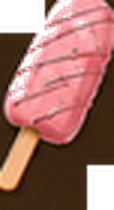
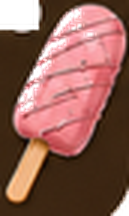
Pricing: fix clipped dozen photos, use Mimi's decor illustrations
The Oreo lost its bottom curve and the cakesicle lost both sides — the crop
boxes were drawn flush to the treats, which shaves a flat edge off a rounded
object. Boxes now leave a couple of px of margin, and the cakesicle no longer
trims inward on the right (her swirl line was already outside the box).

The basic-decor strip now uses her own dipped/drizzled/sprinkles illustrations
off the packages flyer instead of the SVGs I'd drawn.

diff --git a/flyers/crop-treats.py b/flyers/crop-treats.py
@@ -55,24 +55,27 @@ def main():
 
     # ── By the Dozen: one photo per treat ──────────────────────────────────
     # That flyer is only 512x640, so these come out small and get upscaled 3x.
+    # Boxes leave a couple of px of margin past each treat's true edge — these
+    # are photos of rounded objects, so a box drawn flush to the edge shaves a
+    # visible flat off the bottom of the Oreo or the side of the cakesicle.
     dozen = Image.open(DOZEN).convert('RGB')
     dozen_keys = [(DOZEN_PANEL, 26)]
     for name, box in {
-        'oreo': (179, 363, 232, 423),
+        'oreo': (176, 371, 234, 426),
         'krispie': (384, 380, 447, 431),
         'pretzel': (276, 492, 339, 549),
     }.items():
         lift(dozen, box, dozen_keys, scale=3).save(OUT / f'{name}.png')
 
-    # The cakesicle sits against one of her pink swirl lines, with a stray bit
-    # of title lettering above it — neither keys out by colour, so cut them.
+    # A stray bit of the RICE KRISPIES title sits above the cakesicle and keys
+    # to neither background colour, so cut that corner specifically. Don't trim
+    # the right side here — her pink swirl line is already outside the box, and
+    # cutting inward clipped the pop.
     def cakesicle_strays(x, y, w, h):
-        return x > w * 0.78 or (x > w * 0.60 and y > h * 0.78) or (
-            x < w * 0.30 and y < h * 0.15
-        )
+        return x < w * 0.28 and y < h * 0.13
 
     lift(
-        dozen, (201, 467, 249, 537), dozen_keys, scale=3, strays=cakesicle_strays
+        dozen, (198, 463, 241, 535), dozen_keys, scale=3, strays=cakesicle_strays
     ).save(OUT / 'cakesicle.png')
 
     # ── Treat Packages: the treat cluster on each tier's card ──────────────
@@ -85,6 +88,17 @@ def main():
         'pkg-deluxe': (658, 1085, 935, 1266),
     }.items():
         lift(packages, box, pkg_keys).save(OUT / f'{name}.png')
+
+    # ── Treat Packages: her three "basic decor" illustrations ─────────────
+    # Boxes stop short of the strip's own border rule (y=1398) and, for the
+    # drizzle, of the "BASIC DECOR INCLUDES:" lettering above it (ends y=1324).
+    # Keying the cream hollows each circle out, leaving her ring + artwork.
+    for name, box in {
+        'decor-dipped': (163, 1296, 270, 1396),
+        'decor-drizzled': (443, 1326, 511, 1396),
+        'decor-sprinkles': (696, 1326, 772, 1396),
+    }.items():
+        lift(packages, box, pkg_keys, scale=2).save(OUT / f'{name}.png')
 
     for f in sorted(OUT.iterdir()):
         print(f.name, Image.open(f).size)
